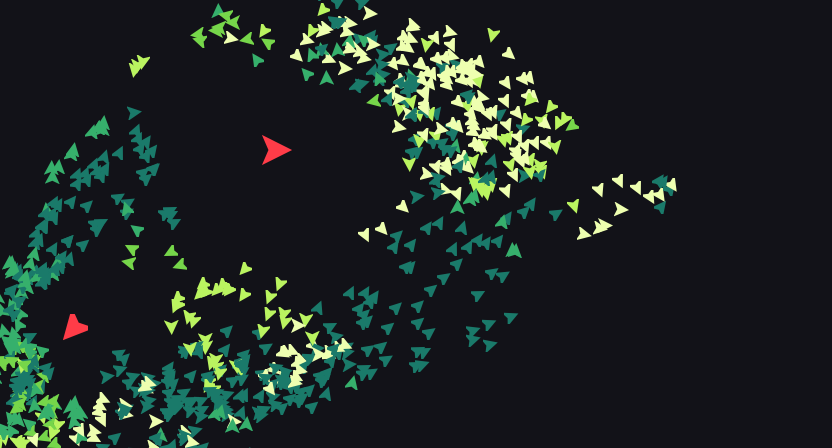
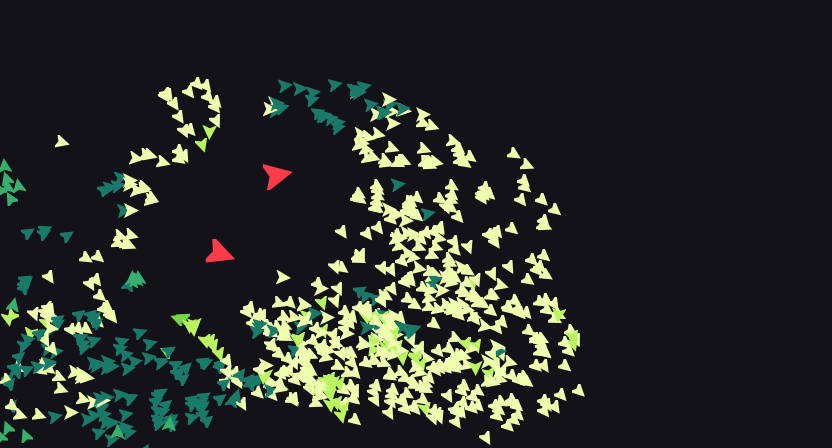
Make every notch of every bar a setting somebody might want
The fourth tester went over the sliders, the presets and the shape of
the terminal.

diff --git a/tests/boids_test.c b/tests/boids_test.c
@@ -380,6 +380,21 @@ static void test_legend_panel_layout(void) {
     char lines[LEGEND_ROWS][LEGEND_LINE_MAX];
 
     reset_test_config();
+    /* The panel waits for a window it is a fifth of rather than half of: at the
+     * smallest terminal it used to appear in, it covered 54% of the area and the
+     * force that keeps birds out of it squeezed half the flock off the edges of
+     * what was left. One column narrower and the flock was fine; one column wider
+     * and it was not. */
+    assert(LEGEND_COLUMNS * LEGEND_ROWS * 4 <= LEGEND_MIN_COLS * LEGEND_MIN_ROWS);
+    apply_screen_size(LEGEND_MIN_COLS - 1, LEGEND_MIN_ROWS, (LEGEND_MIN_COLS - 1) * 8,
+                      LEGEND_MIN_ROWS * 16);
+    assert(screen.legend_width == 0);
+    apply_screen_size(LEGEND_MIN_COLS, LEGEND_MIN_ROWS - 1, LEGEND_MIN_COLS * 8,
+                      (LEGEND_MIN_ROWS - 1) * 16);
+    assert(screen.legend_width == 0);
+    apply_screen_size(LEGEND_MIN_COLS, LEGEND_MIN_ROWS, LEGEND_MIN_COLS * 8, LEGEND_MIN_ROWS * 16);
+    assert(screen.legend_width > 0);
+
     apply_screen_size(80, 24, 80 * 8, 24 * 16);
     assert(screen.legend_width == LEGEND_COLUMNS * screen.cell_width);
     assert(screen.legend_height == LEGEND_ROWS * screen.cell_height);
@@ -406,6 +421,18 @@ static void test_legend_panel_layout(void) {
     assert(strstr(lines[0], "\u256e") != NULL);
     assert(strstr(lines[LEGEND_ROWS - 1], "\u2570") == lines[LEGEND_ROWS - 1]);
     assert(strstr(lines[LEGEND_ROWS - 1], "\u256f") != NULL);
+
+    /* Every notch the keys can reach comes back with 0, including the two the
+     * panel does not show: somebody who has turned the banking down with t cannot
+     * see what they did, so the one key that says "back to the defaults" has to
+     * actually mean it. */
+    config.turning_notch = 0;
+    config.wind_notch = LEGEND_BAR_CELLS;
+    config.boundary_notch = 0;
+    apply_preset_defaults();
+    assert(config.turning_notch == DEFAULT_TURNING_NOTCH);
+    assert(config.wind_notch == 0);
+    assert(config.boundary_notch == DEFAULT_NOTCH);
 
     /* One slider a parameter, named, with a bar and its pair of keys. */
     static const char *names[] = {"boundary",  "separation", "cohesion",
@@ -788,10 +815,23 @@ static void test_birds_bank_rather_than_snap(void) {
     /* Twelve notches is instant, which is what it always used to be. */
     config.turning_notch = LEGEND_BAR_CELLS;
     assert(angle_difference(turn_towards(0.0, M_PI, turn_limit()), M_PI) < 1e-12);
-    /* And none at all is a straight line. */
+    /* And the bottom notch is a long lazy bank — a sixth of a turn a frame, so a
+     * bird comes round in twelve — rather than nothing at all. Nothing meant the
+     * edges could not turn the flock back either, and the whole of it left the
+     * screen inside a second and stayed away; the bottom third of the bar was a
+     * setting nobody could want. Every notch is now one somebody might. */
     config.turning_notch = 0;
-    assert(turn_limit() == 0.0);
-    assert(turn_towards(1.0, 3.0, turn_limit()) == 1.0);
+    assert(turn_limit() > M_PI / 8);
+    assert(turn_limit() < M_PI / 4);
+    assert(turn_towards(1.0, 3.0, turn_limit()) > 1.0);
+    assert(turn_towards(1.0, 3.0, turn_limit()) < 1.0 + M_PI / 4);
+    /* And the bar still climbs from end to end. */
+    double previous = turn_limit();
+    for (int notch = 1; notch < LEGEND_BAR_CELLS; notch++) {
+        config.turning_notch = notch;
+        assert(turn_limit() > previous);
+        previous = turn_limit();
+    }
 
     /* Writing is exempt, or a bird could not land on a letter: it would circle
      * one, and the crispness of the letters is the whole point of them. */
@@ -1014,7 +1054,9 @@ static void test_hawks_hunt_and_the_flock_flees(void) {
                SPATIAL_GRID_OK);
         update_birds(moving, snapshot, &grid);
         int before = hawks[0].prey;
-        double reach = before >= 0 ? distance_to_bird(snapshot, &hawks[0], before) : 0;
+        /* Measured the way the strike is measured: along the whole of the step
+         * the hawk is about to fly, not from where it happens to stand. */
+        double reach = before >= 0 ? reach_along_the_step(snapshot, &hawks[0], before) : 0;
         hunt(snapshot);
         if (hawks[0].passing > 0 && before >= 0) {
             struck = before;
@@ -1024,9 +1066,9 @@ static void test_hawks_hunt_and_the_flock_flees(void) {
         }
     }
     spatial_grid_destroy(&grid);
-    assert(struck >= 0);                                     /* It got there. */
-    assert(struck == held);                                  /* On the bird it was chasing. */
-    assert(struck_at < config.speed + config.bird_size * 2); /* Actually reached. */
+    assert(struck >= 0);                      /* It got there. */
+    assert(struck == held);                   /* On the bird it was chasing. */
+    assert(struck_at < config.bird_size * 2); /* Actually reached it. */
     assert(distance_to_bird(moving, &hawks[0], struck) < gap_before);
 
     /* It sticks with one bird rather than swapping every frame: that flip
@@ -1311,7 +1353,9 @@ static void test_hawks_hunt_and_the_flock_flees(void) {
  * off the screen against one in thirty at sixty. */
 static void test_the_turn_limits_follow_the_frame_rate(void) {
     reset_test_config();
-    apply_screen_size(100, 28, 800, 448);
+    /* Roomy, so that the step is set by the frame rate alone: on a small screen
+     * it is capped by the screen instead, which is the next thing asserted. */
+    apply_screen_size(200, 60, 1600, 960);
     config.turning_notch = 6;
 
     config.frame_rate = DEFAULT_FRAME_RATE;
@@ -1329,6 +1373,16 @@ static void test_the_turn_limits_follow_the_frame_rate(void) {
     update_speed();
     assert(fabs(turn_limit() - bird_at_sixty / 2) < 1e-9);
     assert(fabs(hawk_turn_limit() - hawk_at_sixty / 2) < 1e-9);
+
+    /* And a bird never crosses more than a tenth of the shorter side in one
+     * frame, however low the rate goes: it cannot turn inside a band it clears in
+     * two frames, and on a forty by fourteen terminal one bird in six was off the
+     * screen because of it. */
+    config.frame_rate = MIN_FRAME_RATE;
+    apply_screen_size(40, 14, 320, 224);
+    assert(config.speed <= screen.height / 10.0 + 1e-9);
+    apply_screen_size(200, 60, 1600, 960);
+    assert(config.speed > screen.height / 20.0);
 
     /* Instant stays instant, and nothing ever exceeds a half turn a frame. */
     config.turning_notch = LEGEND_BAR_CELLS;
@@ -2035,6 +2089,8 @@ static void test_frame_rate_controls(void) {
     char keys[INPUT_BUFFER_SIZE + 1];
 
     reset_test_config();
+    /* Roomy, or the step is capped by the screen rather than by the rate. */
+    apply_screen_size(200, 60, 1600, 960);
     assert(config.frame_rate == DEFAULT_FRAME_RATE);
     memset(keys, 'R', INPUT_BUFFER_SIZE);
     keys[INPUT_BUFFER_SIZE] = '\0';

diff --git a/boids.c b/boids.c
@@ -102,8 +102,12 @@ enum {
     LEGEND_BAR_CELLS = 12,
     LEGEND_NAME_WIDTH = 10,
     LEGEND_VALUE_WIDTH = 5,
-    LEGEND_MIN_COLS = 50,
-    LEGEND_MIN_ROWS = 14,
+    /* The panel is 38 by 10 cells and the flock may not enter it. At the smallest
+     * terminal it used to appear in it covered half the screen, and half the flock
+     * was squeezed off the edges of what was left: it needs to be a fifth of the
+     * room, not a half, so it waits for a window it fits inside. */
+    LEGEND_MIN_COLS = 76,
+    LEGEND_MIN_ROWS = 22,
     LEGEND_LINE_MAX = 128,
     SPAWN_ATTEMPTS = 32
 };
@@ -454,6 +458,10 @@ static void measure_legend(void) {
 }
 
 /* Split out of the ioctl query so the tests drive the real derivation. */
+/* Defined with the other notch arithmetic; needed here because the step a bird
+ * takes is capped by the size of the screen it is taking it on. */
+static void update_speed(void);
+
 static void apply_screen_size(int cols, int rows, int pixel_width, int pixel_height) {
     screen.cols = cols > 0 ? cols : DEFAULT_COLS;
     screen.rows = rows > 0 ? rows : DEFAULT_ROWS;
@@ -467,6 +475,9 @@ static void apply_screen_size(int cols, int rows, int pixel_width, int pixel_hei
     screen.cell_height = screen.height / screen.rows;
     if (screen.cell_width < 1) screen.cell_width = 1;
     if (screen.cell_height < 1) screen.cell_height = 1;
+    /* Before the distances, because the panel's turn zone is the panel grown by
+     * one frame of travel and the frame of travel depends on the screen. */
+    update_speed();
     measure_legend();
     update_turn_distances();
 }
@@ -1108,7 +1119,10 @@ static double turn_towards(double from, double to, double most) {
     return turned;
 }
 
-/* Twelve is instant, zero is a straight line and nothing in between is either.
+/* Twelve is instant, zero is as near a straight line as a bird gets — near, and
+ * not exactly, because a bird that cannot turn at all cannot be turned back by
+ * the edges either: at a true zero the whole flock flew out of the frame within a
+ * second and the screen stayed black until something else was pressed.
  *
  * Scaled by the frame rate, like the speed is, so that both are really per second
  * and a bird's turning circle is the same number of pixels whatever the rate. Left
@@ -1118,7 +1132,14 @@ static double turn_towards(double from, double to, double most) {
  * thirty at sixty. */
 static double turn_limit(void) {
     if (config.turning_notch >= LEGEND_BAR_CELLS) return 2 * M_PI;
-    double per_frame = M_PI * config.turning_notch / LEGEND_BAR_CELLS / 2.0;
+    /* The whole bar is a setting somebody might want: from a sixth of a turn a
+     * frame, which is a long lazy bank that swings wide, up to a quarter.
+     * Measured from zero instead, the bottom third of the travel put between a
+     * tenth and all of the flock outside the screen — at the very bottom no bird
+     * could turn at all, so the edges could not turn them back either and the
+     * whole flock left inside a second — and the bar was half poison, with the
+     * README recommending a value from the poisoned half. */
+    double per_frame = M_PI / 6 + (M_PI / 2 - M_PI / 6) * config.turning_notch / LEGEND_BAR_CELLS;
     double scaled = per_frame * DEFAULT_FRAME_RATE / (double)config.frame_rate;
     return scaled > 2 * M_PI ? 2 * M_PI : scaled;
 }
@@ -2096,6 +2117,14 @@ static kitty_graphics_status_t render_frame(kitty_graphics_t *graphics, bird_t *
 
 static void update_speed(void) {
     config.speed = (double)DEFAULT_SPEED * DEFAULT_FRAME_RATE / config.frame_rate;
+    /* And never more than a tenth of the shorter side in one frame. The step is
+     * fixed in pixels a second, which on a full screen is a bird crossing in half
+     * a second and on a small one is a bird crossing in an eighth: it cannot turn
+     * inside a band it clears in two frames, and one bird in six was off the
+     * screen at forty by fourteen. Above about four hundred and fifty pixels tall
+     * — which is most terminals — this changes nothing. */
+    double shorter = screen.width < screen.height ? screen.width : screen.height;
+    if (shorter > 0 && config.speed > shorter / 10.0) config.speed = shorter / 10.0;
 }
 
 static double notch_value(int notch, double minimum, double maximum) {
@@ -2160,11 +2189,16 @@ typedef struct {
 } preset_t;
 
 static const preset_t PRESETS[] = {
-    {"murmuration", "one great restless body, the starling look", {4, 3, 7, 9, 8, 4}},
-    {"swarm", "tight, fast and nervous, like insects", {5, 8, 9, 3, 3, 8}},
-    {"school", "wide and slow, fish over a reef", {3, 5, 6, 7, 11, 2}},
+    /* No preset takes the boundary below 7 or the frame rate below the default,
+     * whatever else it does. Under either, a preset is not a look, it is a flock
+     * that spends its time outside the frame or jumping five body lengths between
+     * one frame and the next: school had one bird in nine off the screen and calm,
+     * of all of them, was the choppiest thing in the program. */
+    {"murmuration", "one great restless body, the starling look", {7, 3, 7, 9, 8, 6}},
+    {"swarm", "tight, fast and nervous, like insects", {7, 8, 9, 3, 3, 8}},
+    {"school", "wide and slow, fish over a reef", {7, 5, 6, 7, 11, 6}},
     {"storm", "loose and violent, thrown about", {9, 10, 2, 2, 6, 9}},
-    {"calm", "a gentle drift, almost still", {2, 4, 4, 5, 6, 1}},
+    {"calm", "a gentle drift, almost still", {7, 4, 4, 5, 6, 6}},
 };
 enum { PRESET_COUNT = sizeof(PRESETS) / sizeof(*PRESETS) };
 static const char *PRESET_NAMES[PRESET_COUNT + 1];
@@ -2322,6 +2356,11 @@ static void apply_preset_defaults(void) {
     config.alignment_notch = DEFAULT_NOTCH;
     config.vision_notch = DEFAULT_VISION_NOTCH;
     config.rate_notch = DEFAULT_NOTCH;
+    /* These two as well. They are not on the panel, so somebody who has turned
+     * the banking down with t and cannot see what they did has nothing else to
+     * undo it with, and "back to the defaults" left them where they were. */
+    config.turning_notch = DEFAULT_TURNING_NOTCH;
+    config.wind_notch = 0;
     apply_notches();
 }
 

diff --git a/README.md b/README.md
@@ -54,7 +54,7 @@ cbirds --color ember      # or pick a ramp
 
 ```bash
 cbirds --preset murmuration --trails    # the starling look, with tails
-cbirds --turning 2                      # long, lazy banking turns
+cbirds --turning 0                      # long, lazy banking turns
 cbirds --hawks 2                        # give the clip a story
 cbirds --flocks 3 --color ice           # three flocks, each keeping to its own
 cbirds --clock                          # the flock is the time
@@ -110,6 +110,11 @@ open sides is nearer — and the force acts on the panel grown by one frame of
 travel, which is what makes it unreachable rather than merely unwelcoming. Over
 **5.3 million placements across eight configurations** — every combination of the
 turning limit's extremes and the frame rate's — not one landed on it.
+
+It waits for a window it is a quarter of, and switches itself off in anything
+smaller. On the smallest terminal it used to appear in, the panel covered half the
+screen and the force that keeps birds out of it squeezed half the flock off the
+edges of what was left.
 
 | key | | key | |
 |---|---|---|---|
